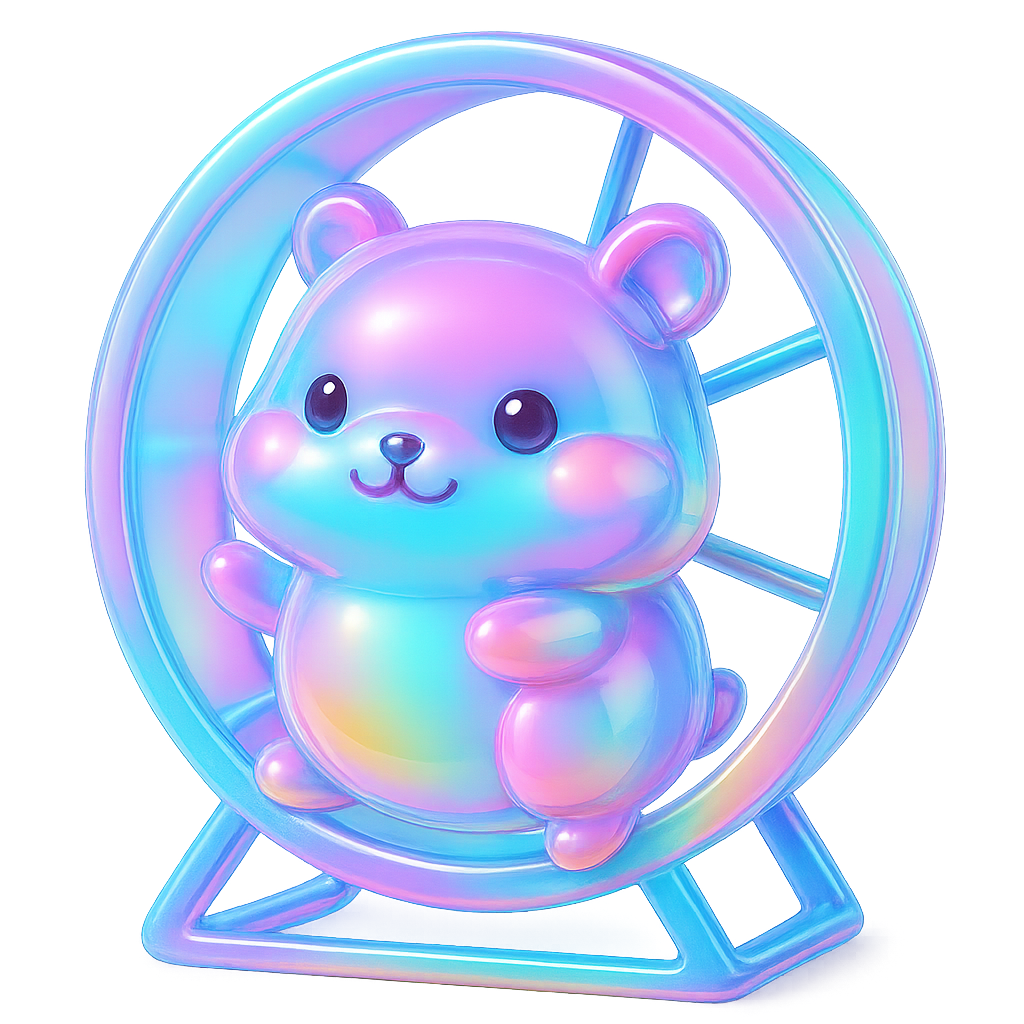
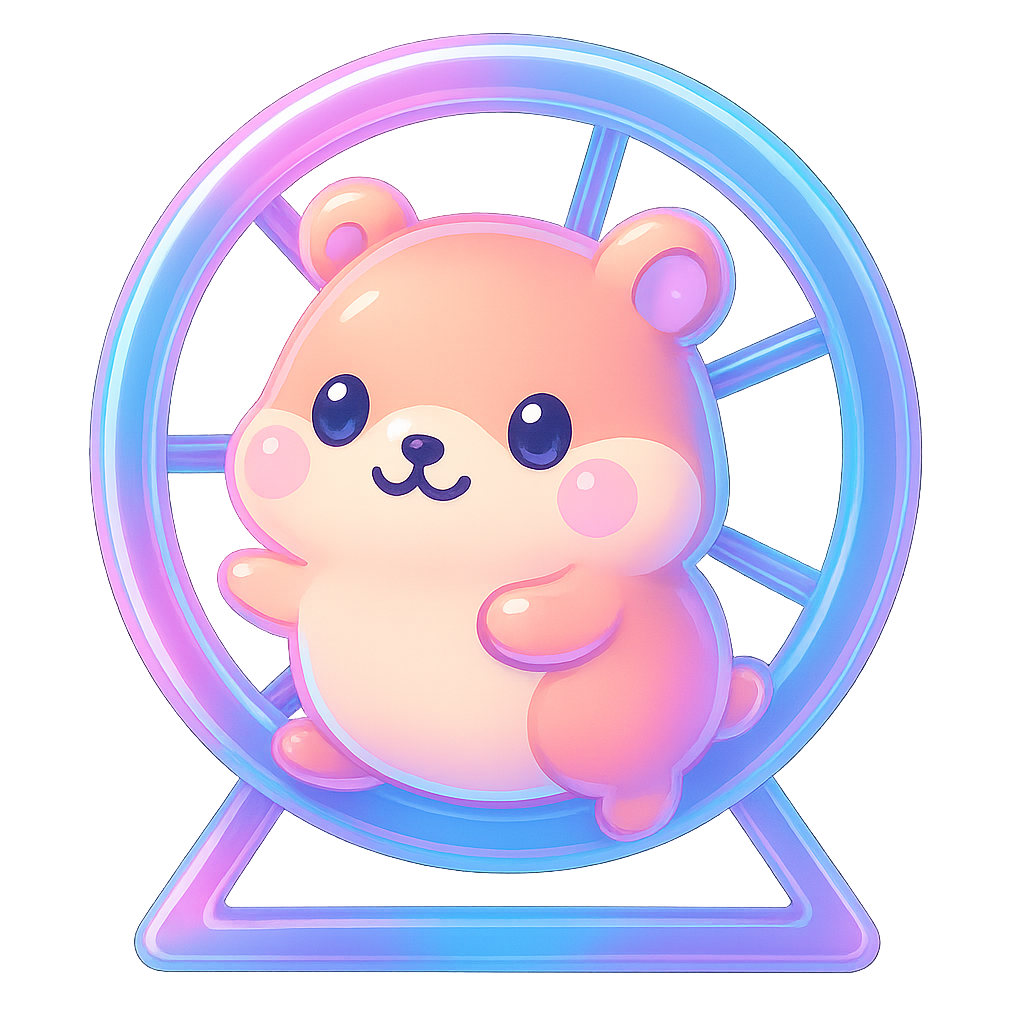
change hamster image and add stroke to title text

diff --git a/components/ui/HolographicText.tsx b/components/ui/HolographicText.tsx
@@ -4,9 +4,16 @@ import { motion } from 'framer-motion';
 interface HolographicTextProps {
   children: string;
   className?: string;
+  strokeWidth?: number; // Width of the stroke in pixels
+  strokeOpacity?: number; // Opacity of the stroke
 }
 
-const HolographicText: React.FC<HolographicTextProps> = ({ children, className = '' }) => {
+const HolographicText: React.FC<HolographicTextProps> = ({ 
+  children, 
+  className = '',
+  strokeWidth,
+  strokeOpacity = 0.8,
+}) => {
   // Generate star glints at specific positions
   const starGlints = [
     { top: 0, left: 0 },
@@ -17,6 +24,33 @@ const HolographicText: React.FC<HolographicTextProps> = ({ children, className =
 
   return (
     <div className={`relative inline-block ${className}`}>
+      {/* Stroke layer (only rendered if strokeWidth is provided) */}
+      {strokeWidth && (
+        <motion.div
+          className="absolute inset-0 text-8xl font-bold tracking-wider"
+          style={{
+            color: 'transparent',
+            WebkitTextStroke: `${strokeWidth}px transparent`,
+            WebkitBackgroundClip: 'text',
+            backgroundClip: 'text',
+            backgroundImage: 'linear-gradient(135deg, rgba(147,51,234,0.8) 0%, rgba(236,72,153,0.8) 50%, rgba(99,102,241,0.8) 100%)',
+            opacity: strokeOpacity,
+            transform: 'scale(1.01)', // Slightly larger to ensure stroke is visible
+            filter: 'blur(0.3px)', // Subtle blur for smoother appearance
+          }}
+          animate={{
+            backgroundPosition: ['0% 0%', '100% 100%', '0% 0%'],
+          }}
+          transition={{
+            duration: 12,
+            repeat: Infinity,
+            ease: "linear",
+          }}
+        >
+          {children}
+        </motion.div>
+      )}
+
       {/* Main text with chrome effect */}
       <motion.div
         className="relative text-transparent bg-clip-text"

diff --git a/app/page.tsx b/app/page.tsx
@@ -82,7 +82,7 @@ const images = [
 
           </div>
           <SpinTheWheel options={options} centerImageSrc="/assets/art/hamster.png" />
-          <HolographicText>{"Sample Text"}</HolographicText>
+          <HolographicText strokeWidth={20} strokeOpacity={0.7}>{"Sample Text"}</HolographicText>
         </KawaiiBackgroundDarker>
         
 
